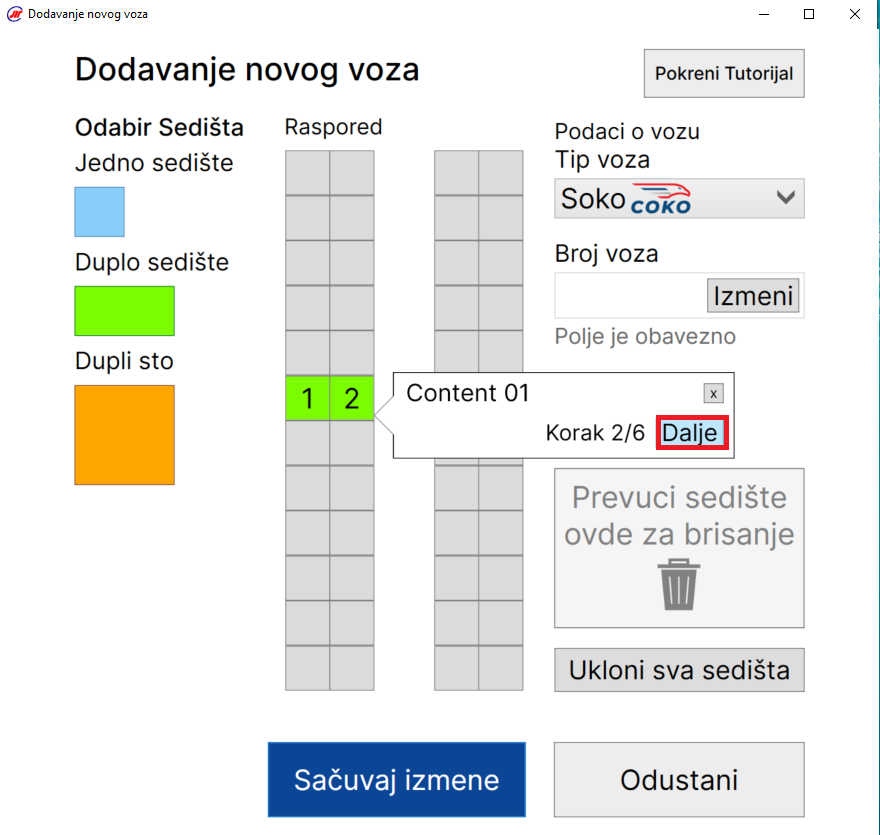
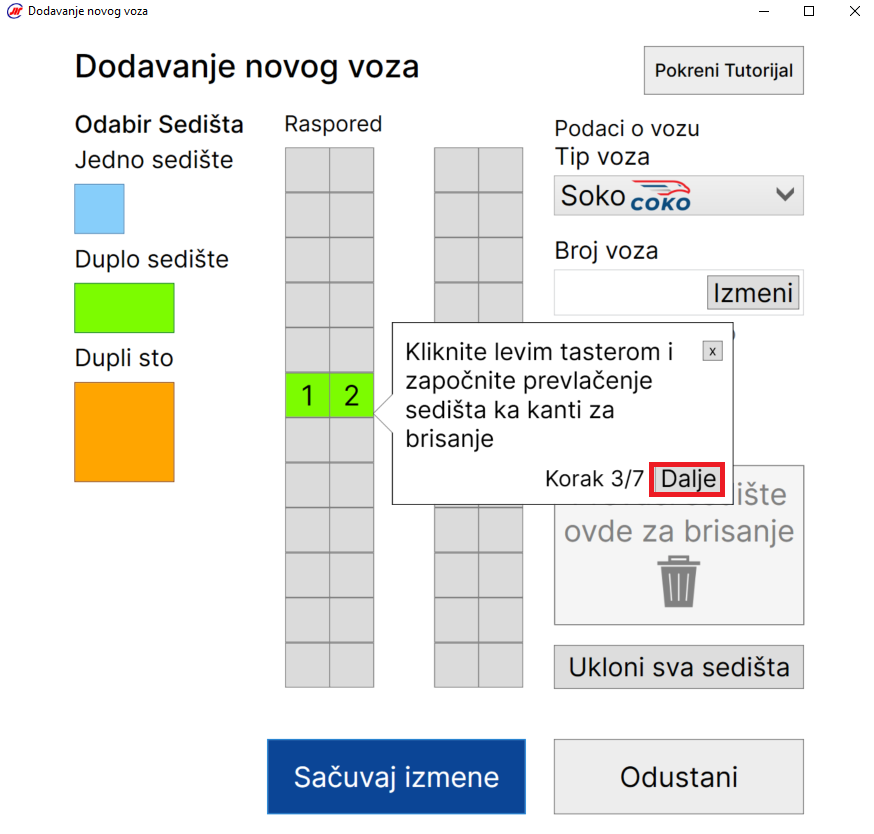
Changed photos for tutorial

diff --git a/P2/Help/GeneralHelpManager.htm b/P2/Help/GeneralHelpManager.htm
@@ -31,14 +31,14 @@
     </div>
 
     <h2 style="align-content: center; text-align: center; margin-top: 5%; margin-bottom: 5%; font-size: 2.2em">Osnovni podaci - Tutorijal</h2>
-    <p style="text-align: left; font-size:1.85em;"> Tutorijal se pokreće klikom na dugme pokreni tutorijal(<b>slika 2</b>).</p>
+    <p style="text-align: left; font-size:1.85em;"> Tutorijal se pokreće klikom na dugme pokreni tutorijal(<b>slika 2</b>) iz dodavanja voza ili dodavanja linija vožnje.</p>
     <div style="text-align: center;">
         <img src="../../../../Assets/Images/ManagerNav2.png" style="width: 40em; height: auto; border: 1px solid black;" />
         <br />
         <label>Slika 2</label>
     </div>
 
-    <p style="text-align: left; font-size:1.85em;"> Tutorijal pokazuje koji delovi treba da se kliknu, pritiskom na dugme dalje se ide na sledeći korak(<b>dalje</b>).</p>
+    <p style="text-align: left; font-size:1.85em;"> Tutorijal pokazuje koji delovi treba da se kliknu, pritiskom na dugme dalje se ide na sledeći korak(<b>slika 3</b>). Oblačići takođe ispisuju šta je potrebno uraditi.</p>
     <div style="text-align: center;">
         <img src="../../../../Assets/Images/ManagerNav3.png" style="width: 40em; height: auto; border: 1px solid black;" />
         <br />

diff --git a/P2/Help/GeneralHelpCustomer.htm b/P2/Help/GeneralHelpCustomer.htm
@@ -25,14 +25,6 @@
         <label>Slika 1</label>
     </div>
 
-    <h2 style="align-content: center; text-align: center; margin-top: 5%; margin-bottom: 5%; font-size: 2.2em">Osnovni podaci - Tutorijal</h2>
-    <p style="text-align: left; font-size:1.85em;">///</p>
-    <div style="text-align: center;">
-        <img src="../../../../Assets/Images/CustomerNav2.png" style="width: 40em; height: auto; border: 1px solid black;" />
-        <br />
-        <label>Slika 2</label>
-    </div>
-
 </body>
 </html>
 
